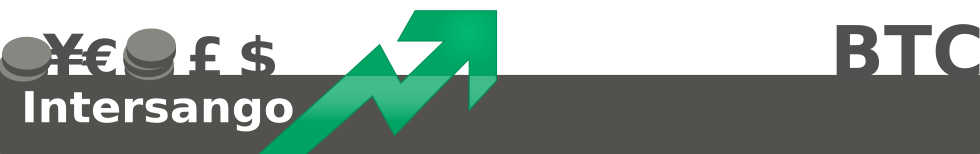
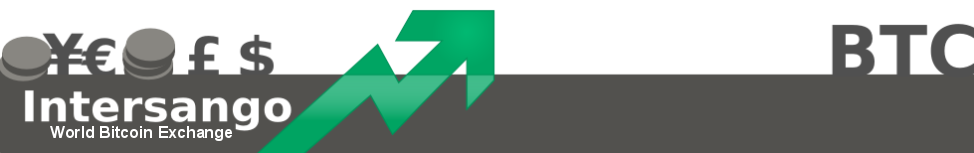
spoke to donald who handles the logistics for intersango and bitcoin consultancy at 2am this morning he said we can use the intersango name as long as we use our own name attached so ive made changes based on his recomendations you will see on the index page small additions i made.

diff --git a/help.php b/help.php
@@ -24,7 +24,7 @@
 <h3>About us</h3>
 <p>My name is Andre Jensen. I have been involved in bitcoin for the past 6 months and have been one of its few active developers. You can see my posts at the <a href="http://forum.bitcoin.org/">bitcoin forums</a> under the name gorkalitus where I have a growing reputation. Amir Taaki developed open source software for: this exchange, a bitcoin stock market exchange, a bitcoin client (Spesmilo) and others.</p>
 <p>For a list of Amir Taaki's current projects please visit <a href="http://bitcoinconsultancy.com/wiki/index.php/Main_Page">Bitcoin Consultancy's wiki page</a>.</p>
-<p>Intersango.com.au is my decision to provide those living in Australia with a free exchange in order to promote awareness in Australia and allow Australia residents to not miss out on the benefits of using bitcoins and being part of this great social change!</p>
+<p>World Bitcoin Exchange is my decision to provide those living in Australia with a free exchange in order to promote awareness in Australia and allow Australian residents to not miss out on the benefits of using bitcoins and being part of this great social change!</p>
 </div>
 
 <div class='content_box'>
@@ -32,7 +32,7 @@
 <p>support@intersango.com.au</p>
 <p>
 <b>High Net Worth Property Pty Ltd <br /></b>
-Trading As: Intersango <br />
+Trading As: World Bitcoin Exchange <br />
 ACN: 61 131 700 779 <br />
 Gold Coast <br />
 Queensland <br />
@@ -85,4 +85,3 @@ Australia <br />
 
 <p>We value our customers' opinions. Do not hesitate to email us if you have comments or questions about our policies. Details may be found above.</p>
 </div>
-

diff --git a/index.php b/index.php
@@ -1,6 +1,9 @@
         <div class='content_box'>
             <h3>Currency converter</h3>
-            <p><b>Intersango.com.au is an Australian exchange. It allows you to trade AUS Dollars (AUD) for Bitcoins (BTC) or Bitcoins for AUS Dollars with other Intersango users.</a></b></p>
+            <p><b>Intersango is an exchange. Here we allow you to trade Australian Dollars (AUD) for Bitcoins (BTC) or Bitcoins for Australian Dollars with other Intersango users.</a></b></p>
+            <p><b>To <a href='https://britcoin.co.uk/'>buy bitcoins</a> with GBP, visit <a href='https://britcoin.co.uk/'>britcoin.co.uk</a></b></p> 
+            <p><b>To <a href='https://intersango.com/'>buy bitcoins</a> with EUR, visit the newly opened site <a href='https://intersango.com/'>intersango.com</a></b></p>
+            <p><b>To <a href='https://intersango.us/'>buy bitcoins</a> with USD, visit the newly opened site <a href='https://intersango.us/'>intersango.us</a></b></p>
         <form id='buy_form' action='?page=place_order' method='post'>
             <table id='exchanger'>
             <tr><td>
@@ -121,7 +124,7 @@
 <p>support@Intersango.com.au</p>
 <p>
 <b>High Net Worth Property Pty Ltd <br /></b>
-Trading As: Intersango <br />
+Trading As: World Bitcoin Exchange <br />
 ACN: 61 131 700 779 <br />
 Gold Coast <br />
 Queensland <br />
@@ -129,4 +132,3 @@ Australia <br />
 4208
 </p>
         </div>
-

diff --git a/withdraw.php b/withdraw.php
@@ -156,7 +156,7 @@ else {
                     <input type='text' class='input_no_block' id='input_account_number' name='account_number' />
                 </div>
                 <div id='acc_sort'>
-                    <label for='input_sort_code'>Sort code</label>
+                    <label for='input_sort_code'>BSB</label>
                     <input type='text' id='input_sort_code' name='sort_code' />
                 </div>
             </div>
